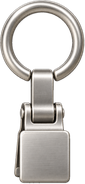
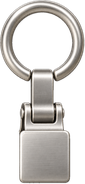
Market: no hover panel, plain ✓ Owned, packs sway on arrival, clip faces front

Changed region(s): [[0.1647, 0.7065, 0.2353, 0.9783]]

diff --git a/src/app/js/market.js b/src/app/js/market.js
@@ -101,12 +101,14 @@ const Market = {
 };
 
 Pages.market = {
+  /* Coming to the page gives the hanging packs a light push. A redraw of the same page (data changed) does not. */
+  enter(root, o) { if (!o?.refresh && MK.tab === "packs") Pages.market.sway(root); },
   build() {
     const root = h("div.page-in.marketpage");
     const paint = () => {
       root.replaceChildren(
         PageHead("Market", "Packs, materials and creators", Scraps.badge()),
-        h("div.seg.mk-seg", ["packs", "materials", "creators"].map((t) => SegButton(t[0].toUpperCase() + t.slice(1), { "aria-pressed": String(MK.tab === t), on: { click: () => { MK.tab = t; Snd.tap(); paint(); } } }))),
+        h("div.seg.mk-seg", ["packs", "materials", "creators"].map((t) => SegButton(t[0].toUpperCase() + t.slice(1), { "aria-pressed": String(MK.tab === t), on: { click: () => { MK.tab = t; Snd.tap(); paint(); if (t === "packs") Pages.market.sway(root); } } }))),
         MK.tab === "packs" ? this.packs(paint) : MK.tab === "materials" ? this.materials(paint) : this.creators(paint));
       const form = Scraps.form(); if(form) root.insertBefore(form, root.children[2]);
     };
@@ -117,8 +119,8 @@ Pages.market = {
     const open = (p, tile) => { Snd.tap(); PackZoom.open(p, tile, (pack) => Market.card(pack)); };
     const cell = (p, i) => {
       const own = Market.own(p.id);
-      return h("div.mk-item", h("i.mk-clip", { "aria-hidden": "true" }), h("button.mk-tile", { "aria-label": `${p.title} by ${p.by}${own ? ", on your shelf" : ""} — look closer`, "aria-haspopup": "dialog", data: { pack: p.id }, style: { "--i": i }, on: { click: (e) => open(p, e.currentTarget) } },
-        Market.pouch(p), own ? h("span.pk-badge.own", "On shelf") : p.price === "Free" ? h("span.pk-badge.free", "Free") : null));
+      return h("div.mk-item", h("i.mk-clip", { "aria-hidden": "true" }), h("button.mk-tile", { "aria-label": `${p.title} by ${p.by}${own ? ", owned" : ""} — look closer`, "aria-haspopup": "dialog", data: { pack: p.id }, style: { "--i": i }, on: { click: (e) => open(p, e.currentTarget) } },
+        Market.pouch(p), own ? h("span.pk-badge.own", "Owned") : p.price === "Free" ? h("span.pk-badge.free", "Free") : null));
     };
     const main = h("div.mk-main",
       h("section.mk-hero", h("div.mk-hero-art", Market.pouch(feat), h("div.fan", feat.keys.slice(0, 3).map((k, i) => { const e = h("div.fan-s", { style: { "--i": i } }); Stk.make(A[k], { border: 12, material: "matte", max: 300 }).then((r) => { const width = r.aspect >= 1 ? 84 : 84 * r.aspect; e.style.setProperty("--fan-width", width+"px"); e.append(Stk.el(r, width)); }); return e; }))),
@@ -126,6 +128,15 @@ Pages.market = {
           h("div.mk-hero-actions", h("button.btn", { on: { click: (e) => Market.own(feat.id) ? open(feat, e.currentTarget.closest(".mk-hero").querySelector(".mk-hero-art")) : Market.get(feat) } }, Market.own(feat.id) ? "Add another set…" : "Get — Free")))),
       h("p.eyebrow.mk-h", "New and popular"), this.rail(MARKET_PACKS.slice(1).map(cell)));
     return h("div.mk", main);
+  },
+  /* Every hanging pack swings once on its clip and settles; each a little differently, so it never looks stamped. */
+  sway(root) {
+    if (reduced()) return;
+    $$(".mk-rail .mk-item", root).forEach((item, i) => {
+      const a = 1.7 + (i % 3) * .45, d = i % 2 ? 1 : -1;
+      item.animate([{ transform: "rotate(0)" }, { transform: `rotate(${d * a}deg)`, offset: .22 }, { transform: `rotate(${-d * a * .62}deg)`, offset: .48 }, { transform: `rotate(${d * a * .34}deg)`, offset: .72 }, { transform: `rotate(${-d * a * .12}deg)`, offset: .88 }, { transform: "rotate(0)" }],
+        { duration: 1700 + (i % 3) * 140, delay: 80 + i * 70, easing: "ease-in-out" });
+    });
   },
   /* Packs hang from a metal rail by a clip. As many to a row as fit; every row gets its own rail. The cells are only moved between rows,
      so their listeners and focus survive a resize. */

diff --git a/src/app/css/native.css b/src/app/css/native.css
@@ -861,3 +861,14 @@ html[data-motion="reduce"] .cer-aura .spin { animation:none; }
 .mk-end.l { left:0; } .mk-end.r { right:0; background-image:var(--a-marketRailEndR); height:34.25px; }
 .mk-rail .mk-item { position:relative; }
 .mk-clip { position:absolute; left:50%; top:calc(-1 * var(--pad) - 4.65px); width:21.25px; height:46px; margin-left:-10.6px; background:var(--a-marketRailClip) center / 100% 100% no-repeat; pointer-events:none; z-index:3; }
+
+/* Packs on the rail: no panel appears around a pack, the whole pack swings on its clip, and "Owned" is plain text. */
+.mk-tile:hover, .mk-tile[aria-pressed="true"], [data-theme="night"] .mk-tile:hover, [data-theme="night"] .mk-tile[aria-pressed="true"] { background:none; box-shadow:none; }
+.mk-tile:focus-visible { outline:2px solid #527d93; outline-offset:2px; }
+.mk-rail .mk-item { transform-origin:50% -3.15px; transition:transform .45s var(--ease-spring); }
+.mk-rail .mk-item:has(.mk-tile:hover) { transform:rotate(-1.4deg); }
+.mk-rail .mk-tile { animation:none; padding-bottom:6px; }
+.mk-rail .mk-tile:hover .pk-stack { transform:none; }
+.mk-tile .pk-badge { position:static; translate:none; margin-top:10px; padding:0; border-radius:0; background:none; box-shadow:none; color:var(--ink); font:500 15px/1.2 var(--sys); }
+.mk-tile .pk-badge.own::before { content:"✓"; margin-right:6px; color:#2f7a45; font-weight:700; }
+html[data-motion="reduce"] .mk-rail .mk-item:has(.mk-tile:hover) { transform:none; }

diff --git a/docs/decisions.md b/docs/decisions.md
@@ -9,7 +9,7 @@
 | Packsの棚: 残数は袋の上の手書き | 丸いバッジを廃止し、各袋の上に「N left」を壁に書いたように手書き体 Kalam(Light/Regular、Google Fonts・SIL OFL、Latinのサブセットを同梱。参考画像に合わせてRegular・26px・字間0.03em・語間広め・濃い灰色)で書く。袋の外に置くのでホバーで動かず、影・ぼかしなし(ズーム中の袋には付かない)。袋は棚の板に接地し(足元に接地影)、1段に収まる数(192px+間隔22pxで割った数)ずつ並べ、段が増えるごとにその段専用の板を出す。窓幅の変化で段を組み替え、袋・フォーカス・ズームの参照は保持。ズーム中の袋にも同じ手書きが付く。Marketのバッジ（On shelf／Free）は不変。棚の見本は実装前にチャットで承認 | 2026-10-08 |
 | Marketの購入: カード内で個数を選んで買う | パックの購入は別フォームをやめ、ズームしたカードの中で完結する。「Sets − 1 +」で個数を選び、「Adds（追加される封入ステッカー数）/ Costs / Scraps after」を即時表示、ボタンは「Buy N set(s)」の1つ。同じ袋に足され、開封済みは Collection に残ることを明記。上限は袋の封入上限(100枚)と Scraps 残高の小さい方で、止まる理由（袋がいっぱい／あとN Scraps）をカード内に出す。購入後はカードを閉じずその場で更新し、背後の棚はカードを閉じてから再描画（開いたまま描き直さない）。複数セットは1トランザクション（残高・封入数・レシートが一緒に確定、上限超過や残高不足は全体を拒否、同じ requestId の再送は二重に払わない）。無料で未所持のパックは従来どおり「Get — Free」1タップ | 2026-10-08 |
 | パック開封と印刷口: 待ち行列に積まない | パックから出たステッカーは印刷口の待ち行列へ入れない方針に変更。10連（まとめ開封）は `pack_open` に `queue:false` を渡し、印刷キューにも今日のスロットにも触れず、そのままCollectionへ（結果画面は「Done」だけ。Stick them／Later は廃止、Esc も閉じるだけ）。1枚開封は「Stick it」だけで貼り付けへ進み、Later と「Waiting at the print slot」は出さない。印刷口・Later は封筒(Today)とギフトの従来どおり（Print → Grab → Paste の設計は不変） | 2026-10-08 |
-| Marketの店頭: コルクボード＋メモ＋クリップ、袋は金属のレールに吊る | 見本は `docs/art-reference/market-mock.webp`。素材は見本から1点ずつ描き直したもの(Codex納品)を `src/art/market/` に取り込み: コルクボード・空白のメモ・銀の紙クリップ・左右にタイルできるレール棒・左右の端・吊りクリップ。納品は2400〜3000pxだったので表示の4倍に縮小し(コルクとメモは256色に減色)、位置合わせの数値は `anchors.json`。先頭のFeaturedはコルクとメモを9スライスで、新着はレールに袋をクリップで吊る。1段に収まる数(150px+18px)ずつ並べ、窓が狭いと段が増え、段ごとに自前の棒と左右の端が付く(吊り下げ位置は棒の中心にクリップのリングの中心を合わせる)。袋のバッジ(On shelf／Free)と購入カードは不変。材質は既存の袋より写実的な金属で、既存アートの「半フラット」とは少し違う(見本どおり) | 2026-10-08 |
+| Marketの店頭: コルクボード＋メモ＋クリップ、袋は金属のレールに吊る | 見本は `docs/art-reference/market-mock.webp`。素材は見本から1点ずつ描き直したもの(Codex納品)を `src/art/market/` に取り込み: コルクボード・空白のメモ・銀の紙クリップ・左右にタイルできるレール棒・左右の端・吊りクリップ。納品は2400〜3000pxだったので表示の4倍に縮小し(コルクとメモは256色に減色)、位置合わせの数値は `anchors.json`。先頭のFeaturedはコルクとメモを9スライスで、新着はレールに袋をクリップで吊る。1段に収まる数(150px+18px)ずつ並べ、窓が狭いと段が増え、段ごとに自前の棒と左右の端が付く(吊り下げ位置は棒の中心にクリップのリングの中心を合わせる)。袋の下の表示はピルをやめて文字だけ(所持は緑の「✓ Owned」、無料は「Free」)。ホバーで袋の周りに白い面を出さず、袋ごと吊りクリップを支点に少し傾く。ページに入ったとき(再描画では鳴らさない)と Packs タブへ戻したときに、全部の袋が少しずつ違う振れ幅で1回揺れて静止(動きを減らす設定では揺れない)。吊りクリップは斜めに見える顎の影を取り除いて正面向きに。購入カードは不変。材質は既存の袋より写実的な金属で、既存アートの「半フラット」とは少し違う(見本どおり) | 2026-10-08 |
 | 開封後の光の演出(封筒・10連) | 封筒のフラップ→カードを引く動きは変えず、引いた後だけ差し替え。固定の金色の枠を廃止し、レア度ごとの光で見せる(部屋の暗さ common 0／uncommon 14%／rare 48%／special 70%／archive 56%、光の帯が裏面を消して柄を現す、rare以上だけ窓の縁が光る、名前は1文字ずつ・封印が押される)。10連はCodexの伏せトレイ実装を廃止し、プレビュー `docs/ui-proposals/gacha-aaa-preview.html` の M-B Sheet を `src/app/js/gx.js`・`css/gx.css` へ忠実に移植: 960×640の世界を窓へ拡縮、頭に追従する裂き方、袋の口から弧を描いて10の定位置へ着地、rare以上は縁の色が透ける、Turn them over で波のように裏返り、rare以上の番で波が止まり部屋が暗転してその1枚が主役、結果は封印と集計つき。抽選・`pack_open` の10回呼び出し・確定済みIDの保持・Skip・Reduce motion は不変（Stick them／Later は下の「パック開封と印刷口」で廃止）。触覚は既存の paste（level change）と seal（generic）だけを使い、tick は鳴らさない | 2026-10-08 |
 | ホバー・閉じる・Nightの追加修正 | 素材タイルの影は通常／hoverで同じinset＋外側2本とし、280msで補間。プレビューの閉じる操作は32pxの丸と中央16px SVGで統一。パック購入のhoverでも背景と影を保持し、brightnessフィルタを除去。StudioのNightは面色とinkを対応。Kraftの背景サンプルは白い焼き込みラベルを避ける位置へ | 2026-10-07 |
 | レア演出・まとめ開封の見せ方 | 添付に従いホロは紫・虹色の枠、金は金のテクスチャ枠と暖色の光。開封後のカードは最大400pxかつステージ半幅・文字領域に収める。まとめ開封は切る→サーバーで確定→最大5×2の伏せトレイ→Turn them over→結果とStick them／Later。rareは紫、special／archiveは金の輪郭・粒子。Skipは演出を短縮し、抽選・在庫・無料開封進捗を変えない。部分失敗では確定済みIDを保ち、画像失敗でもCollectionへ保存済みの結果を失わない | 2026-10-07 |
